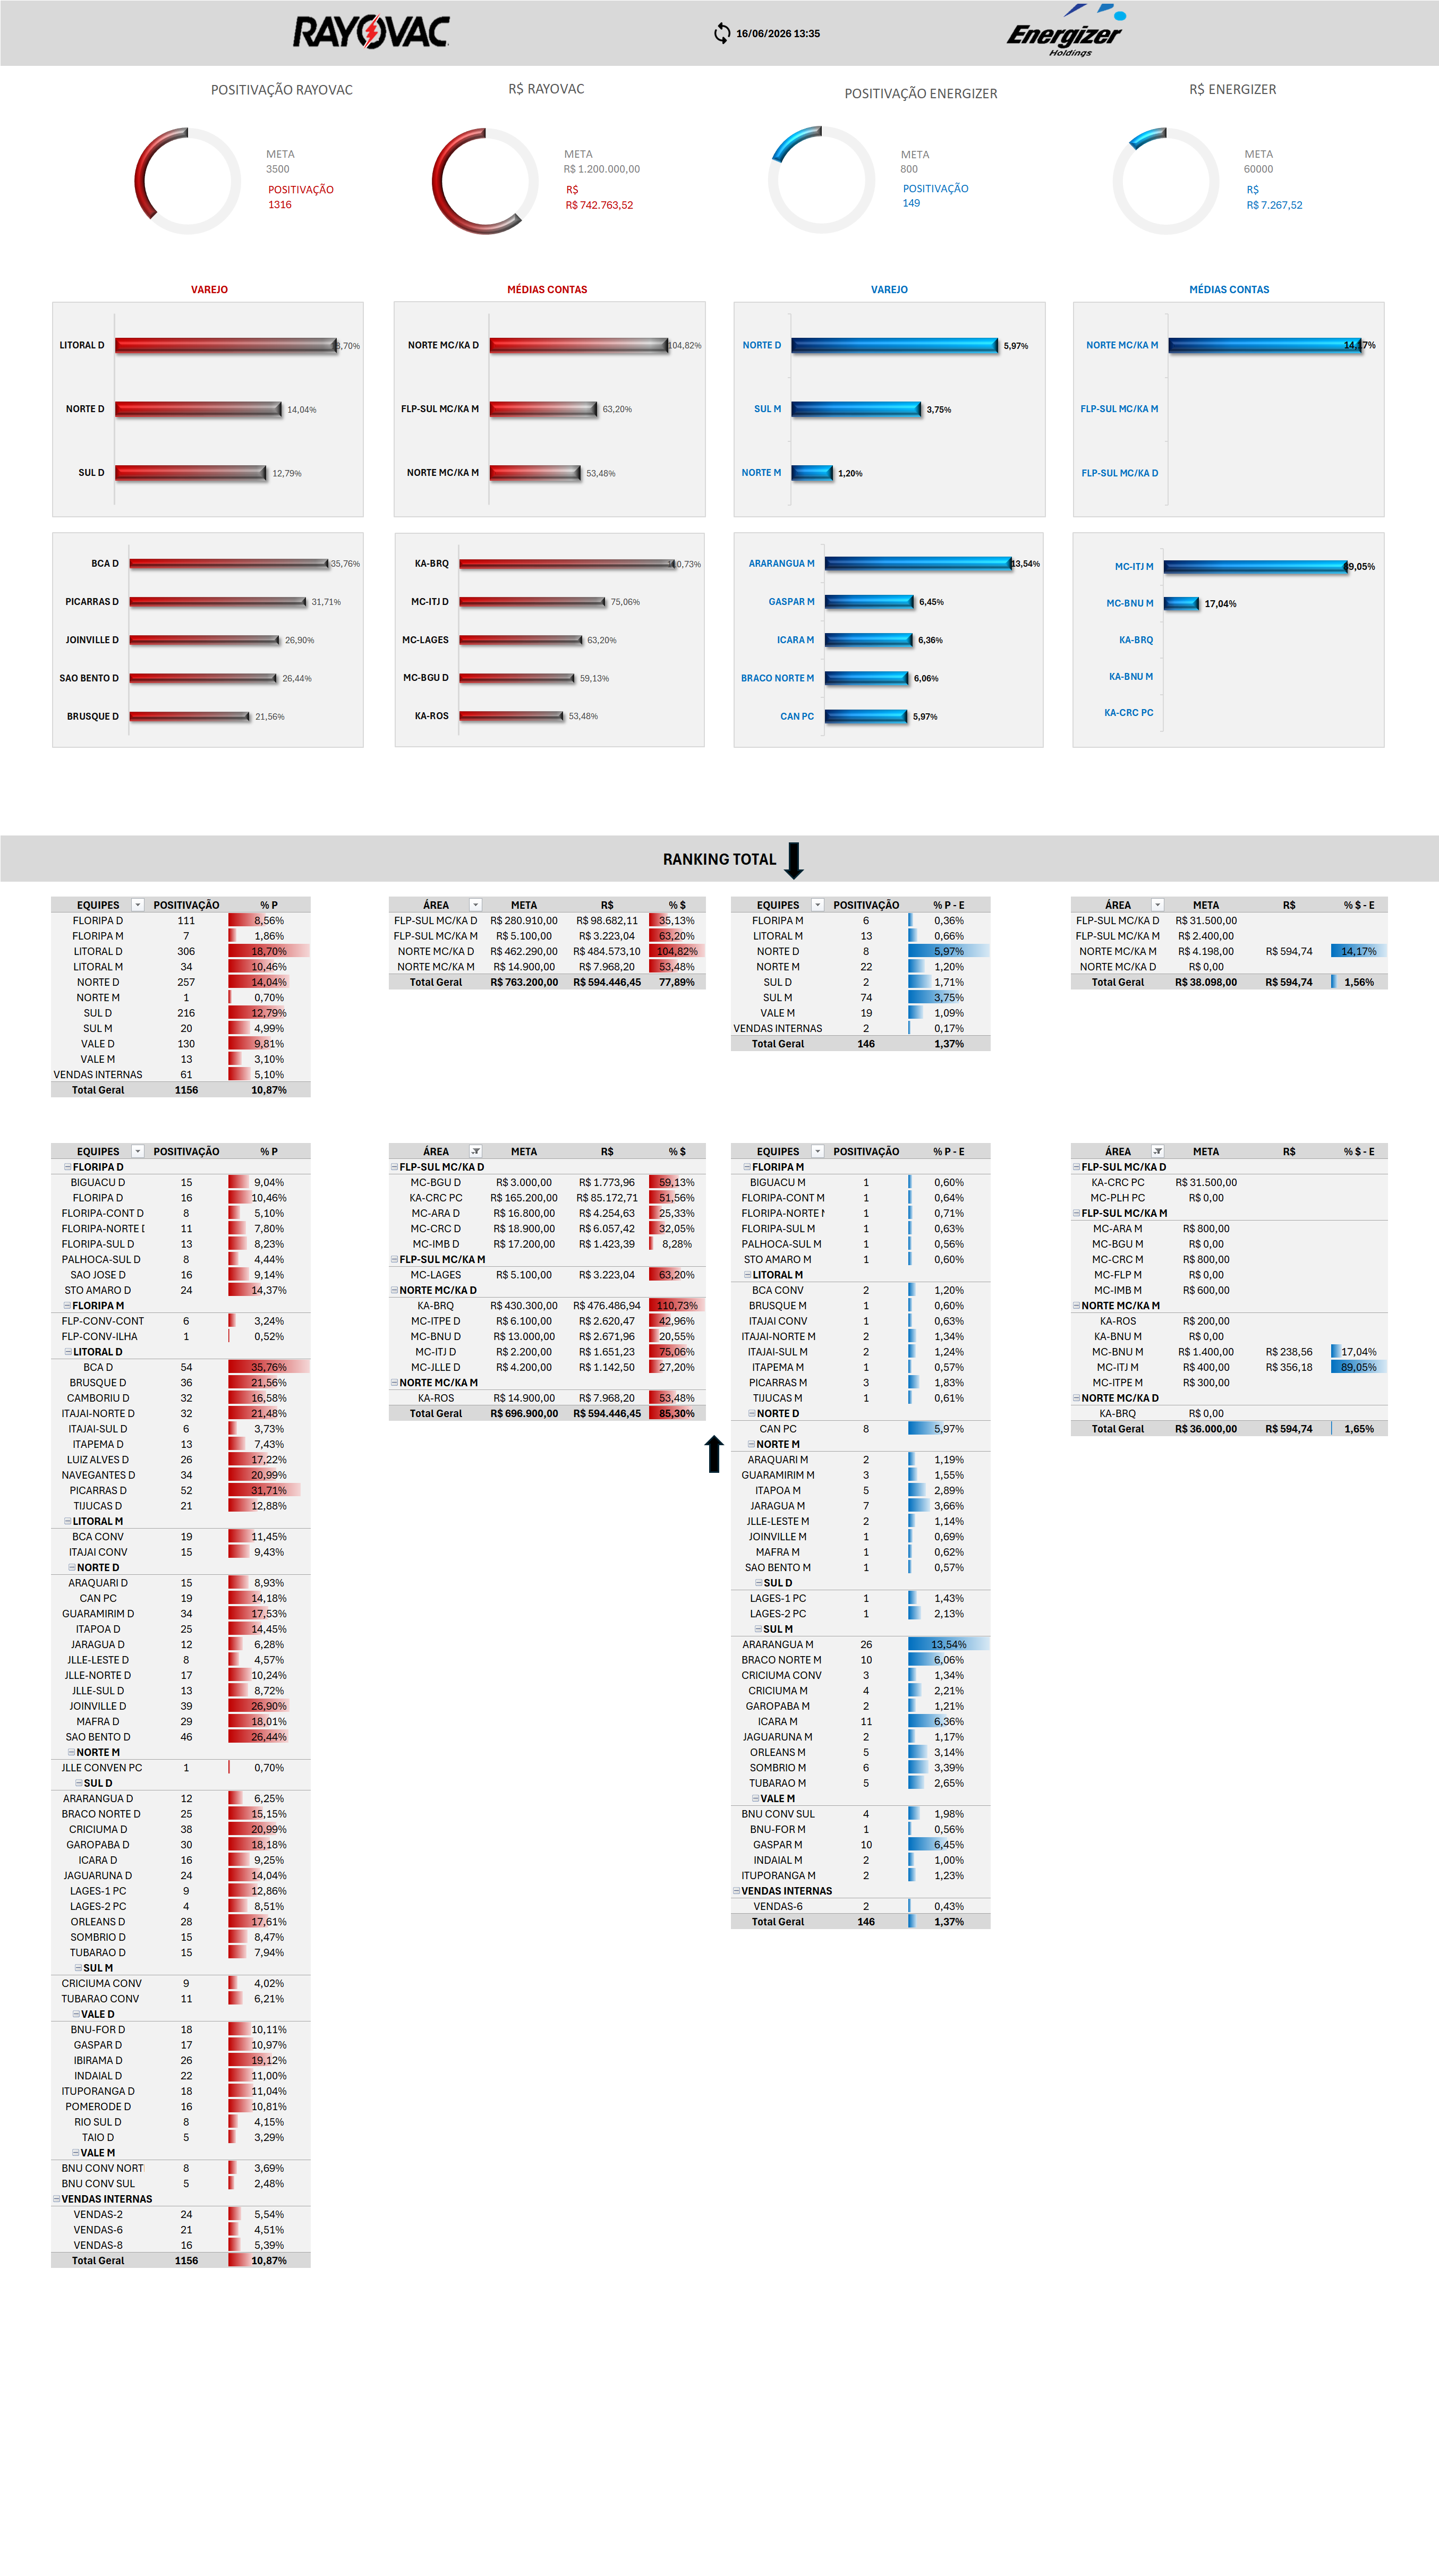
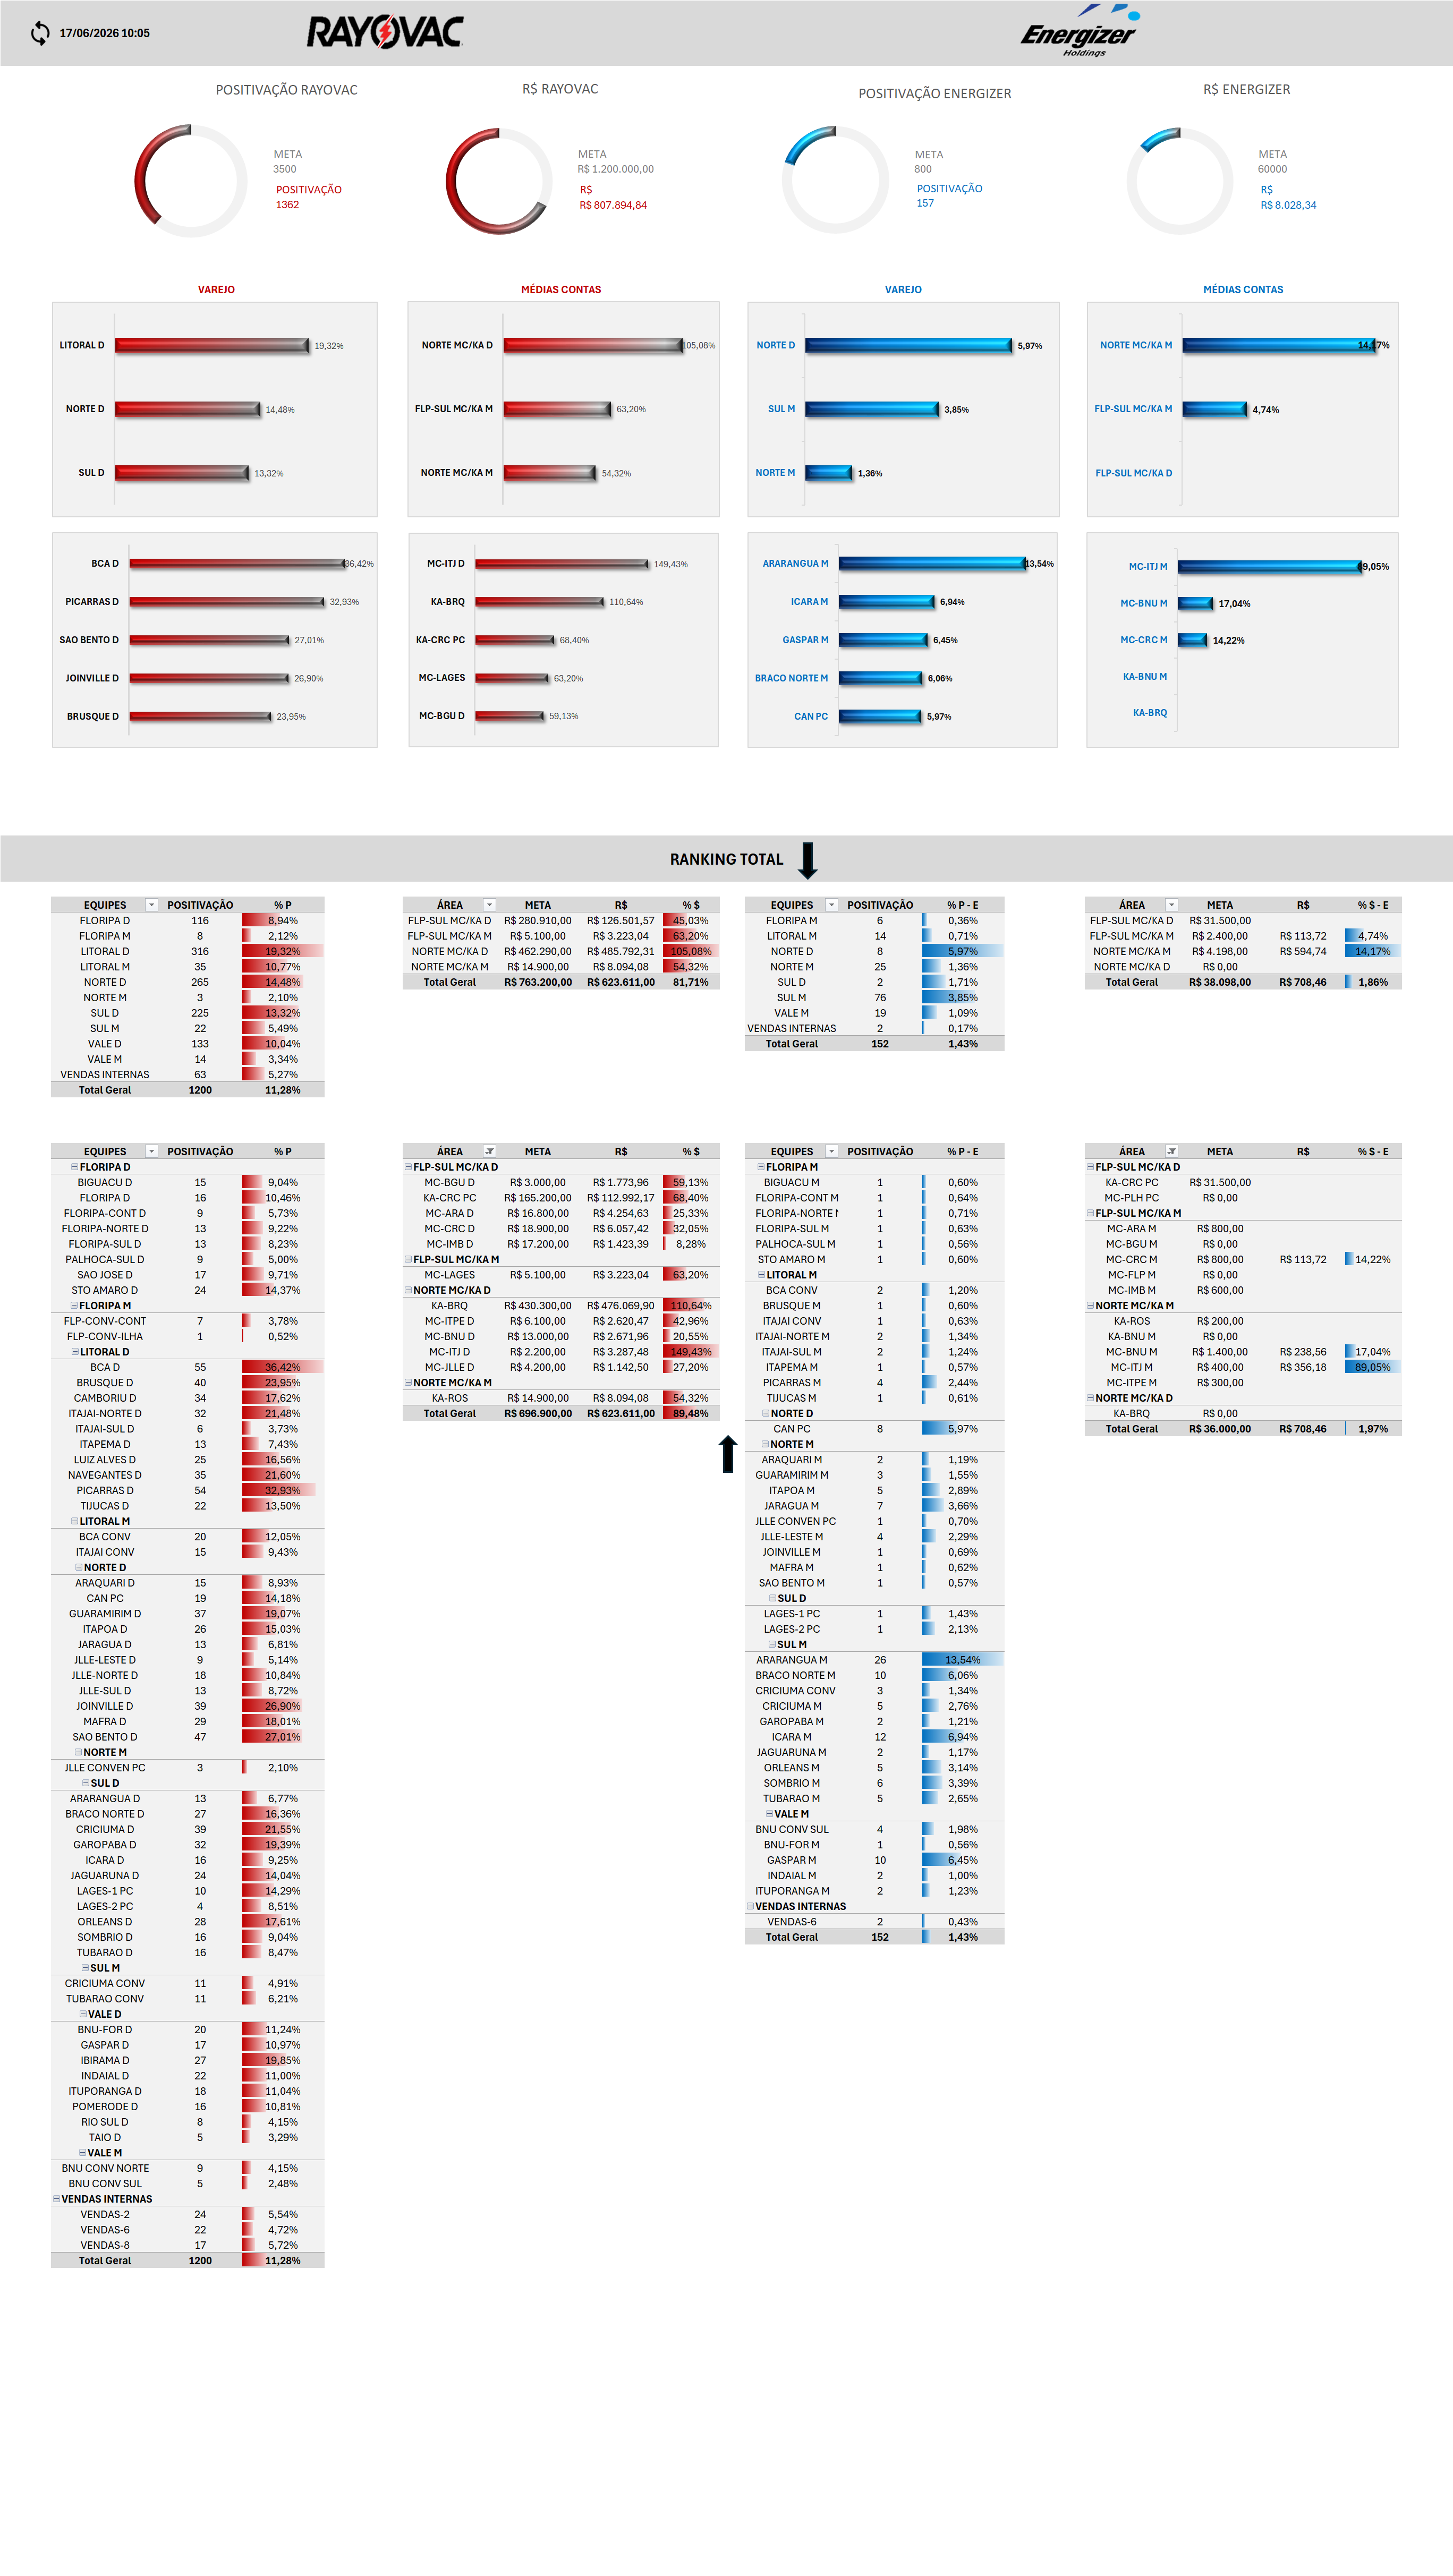
17/06/2026 10:07:26,07

diff --git a/historico.py b/historico.py
@@ -1,6 +1,11 @@
 import sqlite3
+import os
 
-BANCO = "historico.db"
+BASE_DIR = os.path.dirname(
+    os.path.abspath(__file__)
+)
+
+BANCO = os.path.join(BASE_DIR, "historico.db")
 
 
 def conectar():